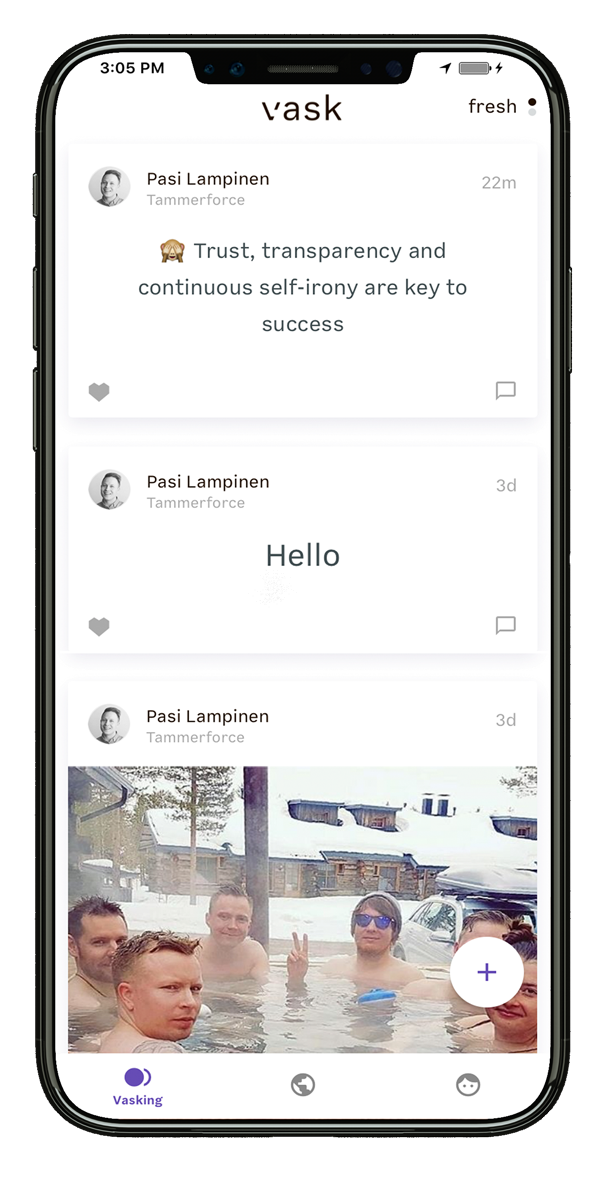
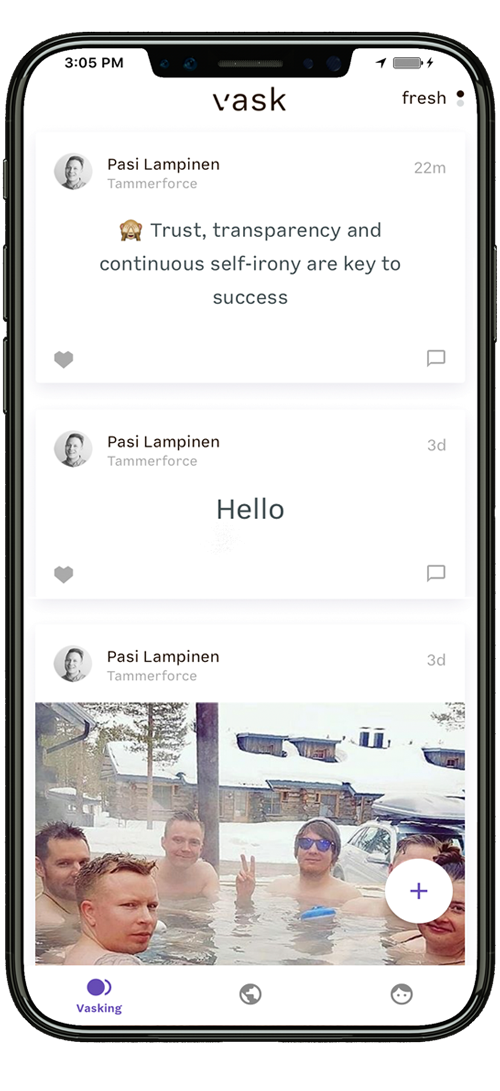
polish horizontal alignment

Changed region(s): [[0.0, 0.0312, 1.0, 0.9661], [0.81, 0.1247, 0.87, 0.1558]]

diff --git a/style.css b/style.css
@@ -73,7 +73,7 @@ h2 {
 .mockup {
   max-width: 360px;
   display: inline-block;
-  margin: 0 30px -200px;
+  margin: 0 30px -200px 0;
 
   opacity: 0;
   animation: fade-in 0.6s;
